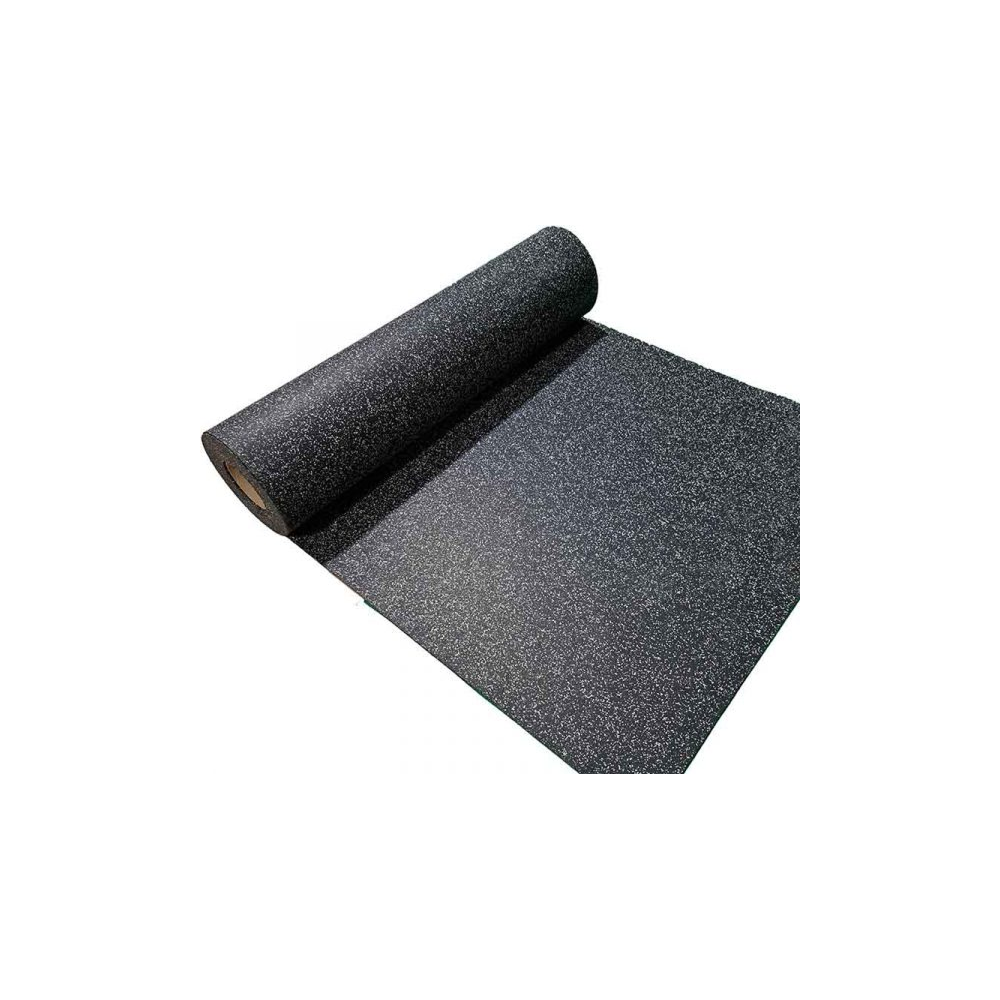
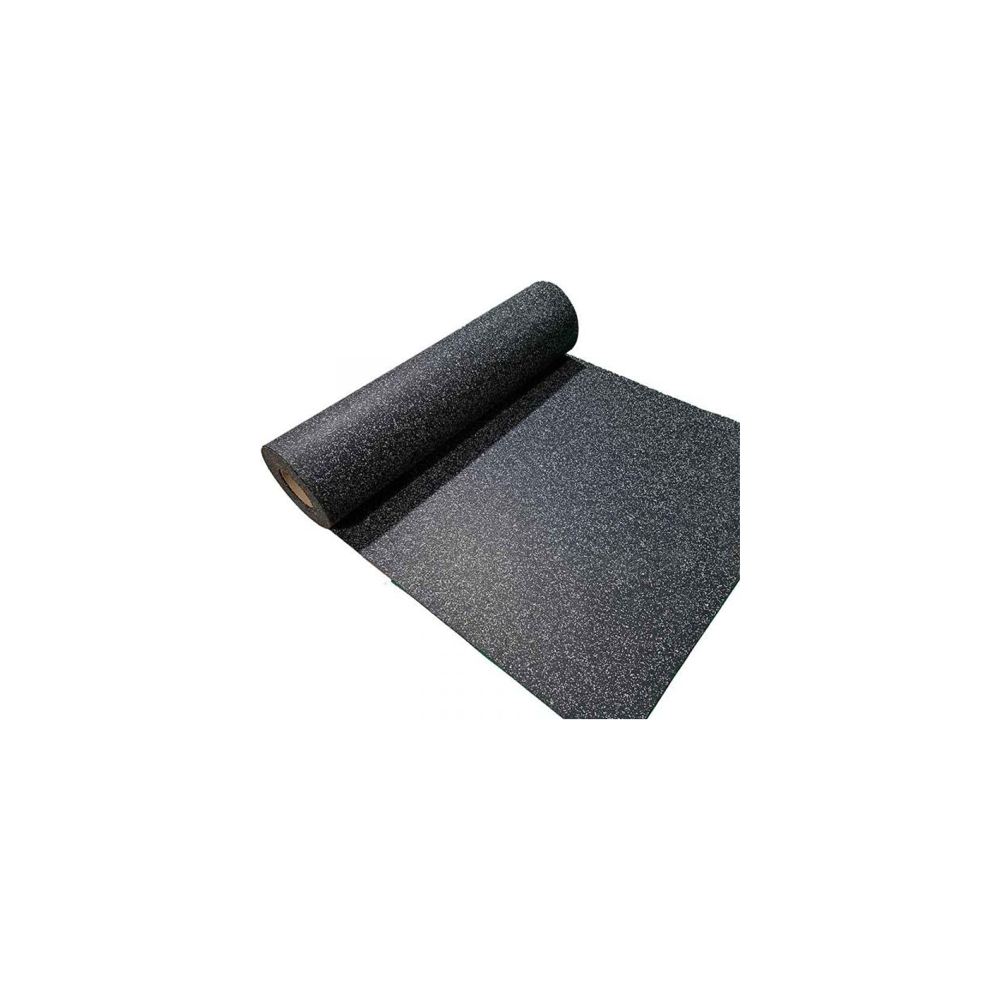
fix(content): 4 corrections NPS — TOP RUBBERCORK + préfixe NPS + image color + écoles
Quatre points de feedback NPS traités d'un coup :

1. TOP RUBBERCORK retiré de la page "Isolation sous chape sans ATE" — il
   est en fait une sous-couche sous parquet/stratifié/moquette, pas sous
   chape. Reclassé en subcategory "isolation-revetements-sols" (page
   "Isolation sous revêtements de sols").

2. Préfixe "NPS" retiré du nom produit "NPS TOP ACOUSTIQUE RUBBER ECOMAT"
   et de toutes les références (description, chatbot, guides). Le fichier
   PDF de la fiche technique garde son nom d'origine (référence physique).

3. Image SPORTEC color recadrée — le visuel original avait le rouleau
   collé au bord supérieur du canvas, donc rendu coupé dans l'aspect-
   square + p-4 de ProductCard. Resizé à 80% puis padded à 1000x1000
   blanc via sips pour avoir la même marge que les autres SPORTEC.

4. Catégorie /sport/commerce/ecoles-jardins supprimée totalement :
   - Page + layout retirés
   - Navbar nettoyée
   - Hub /sport (commerceCategories) nettoyé
   - SEO metadata retirée
   - Catalogue chatbot mis à jour
   - Commercial guide (productGuides.ts) : colonne "ecoles" retirée
     dans la liste de catégories ET dans chaque ratings de produit

Changed region(s): [[0.186, 0.217, 0.806, 0.775]]

diff --git a/data/guides.ts b/data/guides.ts
@@ -91,7 +91,7 @@ export const guides: Guide[] = [
         heading: "Solutions NPS — sans ATE (rénovation)",
         body: `Pour les chantiers hors DTU ou en rénovation où l'ATE n'est pas exigé :`,
         bullets: [
-          "NPS TOP Acoustique Rubber Ecomat (2-20 mm) — granulé caoutchouc + PU, ΔLw 16-21 dB sous chape 45 mm, certifié A+",
+          "TOP Acoustique Rubber Ecomat (2-20 mm) — granulé caoutchouc + PU, ΔLw 16-21 dB sous chape 45 mm, certifié A+",
           "TOP Rubbercork (2-6 mm) — mélange caoutchouc + liège, ΔLw 18-20 dB, certifié A+ et Blue Angel",
         ],
       },
@@ -996,7 +996,7 @@ export const guides: Guide[] = [
     slug: "tapis-machine-a-laver-anti-vibration",
     title: "Tapis anti-vibration machine à laver : choisir un sous-machine efficace",
     description:
-      "Tapis anti-vibration pour machine à laver / sèche-linge : réduction des vibrations, du bruit, protection du sol. NPS TOP VIB WASH et alternatives, pose et dimensionnement.",
+      "Tapis anti-vibration pour machine à laver / sèche-linge : réduction des vibrations, du bruit, protection du sol. TOP VIB WASH et alternatives, pose et dimensionnement.",
     primaryKeyword: "tapis machine à laver anti-vibration",
     intro:
       "Une machine à laver à essorage rapide (1200-1600 tr/min) génère des vibrations qui peuvent se propager dans la dalle et résonner dans le logement, et même chez les voisins. Un tapis anti-vibration spécifique réduit ces vibrations de plusieurs dB, prolonge la durée de vie de la machine, et limite les déplacements de l'appareil pendant l'essorage.",
@@ -1009,7 +1009,7 @@ export const guides: Guide[] = [
       },
       {
         heading: "Solution NPS : TOP VIB WASH",
-        body: `**NPS TOP VIB WASH** est notre solution dédiée au calage anti-vibration des machines à laver et sèche-linge en environnement domestique. Caoutchouc densité élevée, format adapté aux machines standard.\n\nPose simple : poser le tapis au sol, positionner la machine dessus, vérifier l'horizontalité. Aucune fixation nécessaire.\n\nPour les usages plus exigeants (laverie collective, machines pro à fort essorage), des solutions plus dimensionnées peuvent être étudiées — nous contacter.`,
+        body: `**TOP VIB WASH** est notre solution dédiée au calage anti-vibration des machines à laver et sèche-linge en environnement domestique. Caoutchouc densité élevée, format adapté aux machines standard.\n\nPose simple : poser le tapis au sol, positionner la machine dessus, vérifier l'horizontalité. Aucune fixation nécessaire.\n\nPour les usages plus exigeants (laverie collective, machines pro à fort essorage), des solutions plus dimensionnées peuvent être étudiées — nous contacter.`,
       },
       {
         heading: "Limites d'un tapis simple",

diff --git a/supabase/functions/acoustic-expert-chat/index.ts b/supabase/functions/acoustic-expert-chat/index.ts
@@ -85,7 +85,7 @@ Sous-couches fines en pose libre directement sous le revêtement.
 - Hub de catégorie : /batiment/isolation-revetements-sols
 
 ## Sous-couches NPS (sans ATE)
-- NPS TOP ACOUSTIQUE RUBBER ECOMAT — /produit/top-acoustique-rubber-ecomat — granulés caoutchouc + PU. Épaisseur 2/3/4/5 mm. Densité 760-860. Comportement feu Efl. ΔLw 16-21 dB sous chape 45 mm. Cert A+.
+- TOP ACOUSTIQUE RUBBER ECOMAT — /produit/top-acoustique-rubber-ecomat — granulés caoutchouc + PU. Épaisseur 2/3/4/5 mm. Densité 760-860. Comportement feu Efl. ΔLw 16-21 dB sous chape 45 mm. Cert A+.
 - TOP RUBBERCORK — /produit/top-rubbercork — mélange caoutchouc/liège. Épaisseur 2-6 mm. ΔLw 18-20 dB. Sous parquet/stratifié/moquette.
 - Hub de catégorie : /batiment/isolation-sans-ate
 
@@ -114,7 +114,7 @@ KRAITEC = tapis/dalles de protection mécanique. SONIC = isolation phonique des 
 - SPORTEC® PUZZLE 2.0 — /produit/sportec-puzzle-2-0 — dalles emboîtables sans colle. Variantes Color (15% EPDM, Efl) ou Purcolor (100% EPDM dont 15% noir, Cfl-s1). Format 1030×1030 extérieur / 1000×1000 couvrant. Épaisseur 6/8/10 mm (Purcolor uniquement 6 mm). Pour fitness amovible, retail, showrooms, abords patinoire. Cert IACG, Blue Angel, LEED, BREEAM.
 - SPORTEC® BASE FR — /produit/sportec-base-fr — dalle EPDM 30 mm coupe-feu Cfl-s1 (B1). Dalles 500×500 ou 1000×500 mm. Réduction bruits 25 dB (DIN EN ISO 10140-3). PCF 17,1 kg CO₂e/m². > 80 % recyclé. Pour zones d'haltérophilie en ERP.
 - SPORTEC® BASE MS — /produit/sportec-base-ms — dalle 30 mm caoutchouc recyclé pour protection chutes de poids en haltérophilie INDOOR (PAS gazon synthétique). Couleur gris (noir sur demande). Dalles 500×500, 1000×500, 1000×1000 mm. Feu Efl(B2). > 80 % recyclé.
-- Hub Sport : /sport — sous-pages : /sport/fitness (cardio, halterophilie, fonctionnel, yoga, plein-air, gymcoustic), /sport/outdoor (tennis, basket, athletisme, multi-jeux, sports-terrain, piscine, loisirs, golf), /sport/indoor, /sport/sports-hiver, /sport/stand-tir, /sport/commerce/{bureaux, magasins, salons-evenements, reeducation, ecoles-jardins}
+- Hub Sport : /sport — sous-pages : /sport/fitness (cardio, halterophilie, fonctionnel, yoga, plein-air, gymcoustic), /sport/outdoor (tennis, basket, athletisme, multi-jeux, sports-terrain, piscine, loisirs, golf), /sport/indoor, /sport/sports-hiver, /sport/stand-tir, /sport/commerce/{bureaux, magasins, salons-evenements, reeducation}
 
 # Produits Bricolage (particuliers & pro)
 - BUMPY — /produit/profimat-bumpy — BUTOIR D'APPROCHE pour parking (PAS un tapis). Bloc moulé en granulés caoutchouc 100 % recyclé. Fixation 2 vis béton Ø 8×120 mm ou pose adhésive. Emplacements pour réflecteurs Ø 60 mm. Pour parkings, garages couverts, parkings souterrains, carports, pistes cyclables.

diff --git a/data/products.ts b/data/products.ts
@@ -876,9 +876,9 @@ export const batimentProducts: Product[] = [
   },
   
   // Isolation sous chape sans ATE (produits avec "Top" dans le nom)
-  { name: "NPS TOP ACOUSTIQUE RUBBER ECOMAT", slug: "top-acoustique-rubber-ecomat", image: topAcoustiqueEcomat.src, category: "batiment", subcategory: "isolation-sans-ate",
+  { name: "TOP ACOUSTIQUE RUBBER ECOMAT", slug: "top-acoustique-rubber-ecomat", image: topAcoustiqueEcomat.src, category: "batiment", subcategory: "isolation-sans-ate",
     details: {
-      description: "NPS TOP ACOUSTIC rubber ecomat est une sous-couche acoustique sous revêtements de sol pour la réduction des bruits d'impact.",
+      description: "TOP ACOUSTIQUE rubber ecomat est une sous-couche acoustique sous revêtements de sol pour la réduction des bruits d'impact.",
       specifications: [
         { label: "Matériau", value: "Granulés de caoutchouc avec agent de liaison PU élastomère" },
         { label: "Couleur", value: "noire" },
@@ -898,7 +898,7 @@ export const batimentProducts: Product[] = [
       dataSheetUrl: "/fiches-techniques/NPS_TOP_Acoustique_Rubber_Ecomat.pdf",
     }
   },
-  { name: "TOP RUBBERCORK", slug: "top-rubbercork", image: topRubbercork.src, category: "batiment", subcategory: "isolation-sans-ate",
+  { name: "TOP RUBBERCORK", slug: "top-rubbercork", image: topRubbercork.src, category: "batiment", subcategory: "isolation-revetements-sols",
     details: {
       description: "TOP RUBBERCORK est un mélange caoutchouc/liège haut de gamme pour isolation acoustique mince. Idéale sous parquet, stratifié ou moquette.",
       specifications: [

diff --git a/data/productGuides.ts b/data/productGuides.ts
@@ -126,7 +126,6 @@ export const commercialGuide: ProductGuide = {
     { id: "bureaux", name: "Bureaux" },
     { id: "magasins", name: "Magasins" },
     { id: "reeducation", name: "Rééducation" },
-    { id: "ecoles", name: "Écoles & Crèches" },
     { id: "salons", name: "Salons & événements" },
   ],
   sections: [
@@ -141,7 +140,6 @@ export const commercialGuide: ProductGuide = {
             "bureaux": "bestseller",
             "magasins": "bestseller",
             "reeducation": "appropriate",
-            "ecoles": "recommended",
             "salons": "recommended",
           },
         },
@@ -153,7 +151,6 @@ export const commercialGuide: ProductGuide = {
             "bureaux": "appropriate",
             "magasins": "bestseller",
             "reeducation": "bestseller",
-            "ecoles": "appropriate",
             "salons": "appropriate",
           },
         },
@@ -165,7 +162,6 @@ export const commercialGuide: ProductGuide = {
             "bureaux": "recommended",
             "magasins": "appropriate",
             "reeducation": "recommended",
-            "ecoles": "bestseller",
             "salons": "bestseller",
           },
         },
@@ -177,7 +173,6 @@ export const commercialGuide: ProductGuide = {
             "bureaux": null,
             "magasins": null,
             "reeducation": "appropriate",
-            "ecoles": null,
             "salons": null,
           },
         },

diff --git a/app/sport/page.tsx b/app/sport/page.tsx
@@ -16,7 +16,6 @@ import bureauImage from "@/assets/categories/commerce/bureaux.webp";
 import magasinsImage from "@/assets/categories/commerce/magasins.webp";
 import salonsImage from "@/assets/categories/commerce/salons.webp";
 import reeducationImage from "@/assets/categories/commerce/reeducation.webp";
-import ecoleJardinImage from "@/assets/categories/commerce/ecole-jardin.webp";
 
 // Sport subcategory images
 import standTirImage from "@/assets/categories/sport/stand-tir.webp";
@@ -56,7 +55,6 @@ const commerceCategories: SubCategory[] = [
   { id: "magasins", name: "Magasins", description: "Commerces et boutiques", image: magasinsImage.src, path: "/sport/commerce/magasins" },
   { id: "salons-evenements", name: "Salons & événements", description: "Stands modulaires, hôtellerie", image: salonsImage.src, path: "/sport/commerce/salons-evenements" },
   { id: "reeducation", name: "Rééducation", description: "Kiné, médico-sportif", image: reeducationImage.src, path: "/sport/commerce/reeducation" },
-  { id: "ecoles-jardins", name: "Écoles & jardins", description: "Crèches, cours, jardins", image: ecoleJardinImage.src, path: "/sport/commerce/ecoles-jardins" },
 ];
 
 const SubCategoryCard = ({ item, index }: { item: SubCategory; index: number }) => (

diff --git a/lib/seo.ts b/lib/seo.ts
@@ -211,12 +211,6 @@ export const PAGE_SEO: Record<string, PageSeo> = {
     description: "Revêtements adaptés aux cabinets de kinésithérapie, centres de rééducation et espaces médico-sportifs.",
     keywords: [...COMMON_KEYWORDS, "kinésithérapie", "rééducation"],
   },
-  "/sport/commerce/ecoles-jardins": {
-    title: `Sols pour écoles et jardins d'enfants | ${BRAND}`,
-    description: "Revêtements sécurisés pour cours d'écoles, crèches et jardins d'enfants. Antichoc, antidérapant, hygiénique.",
-    keywords: [...COMMON_KEYWORDS, "sol école", "cour récréation", "crèche"],
-  },
-
   // /guide and /guide/* hidden — contenu en cours de validation par un acousticien.
 
   "/solutions": {

diff --git a/components/Navbar.tsx b/components/Navbar.tsx
@@ -32,7 +32,6 @@ const sportSubLinks: SubLink[] = [
   { name: "Magasins & commerces", path: "/sport/commerce/magasins" },
   { name: "Salons & événements", path: "/sport/commerce/salons-evenements" },
   { name: "Rééducation & kiné", path: "/sport/commerce/reeducation" },
-  { name: "Écoles & jardins d'enfants", path: "/sport/commerce/ecoles-jardins" },
 ];
 
 const solutionsSubLinks: SubLink[] = [
